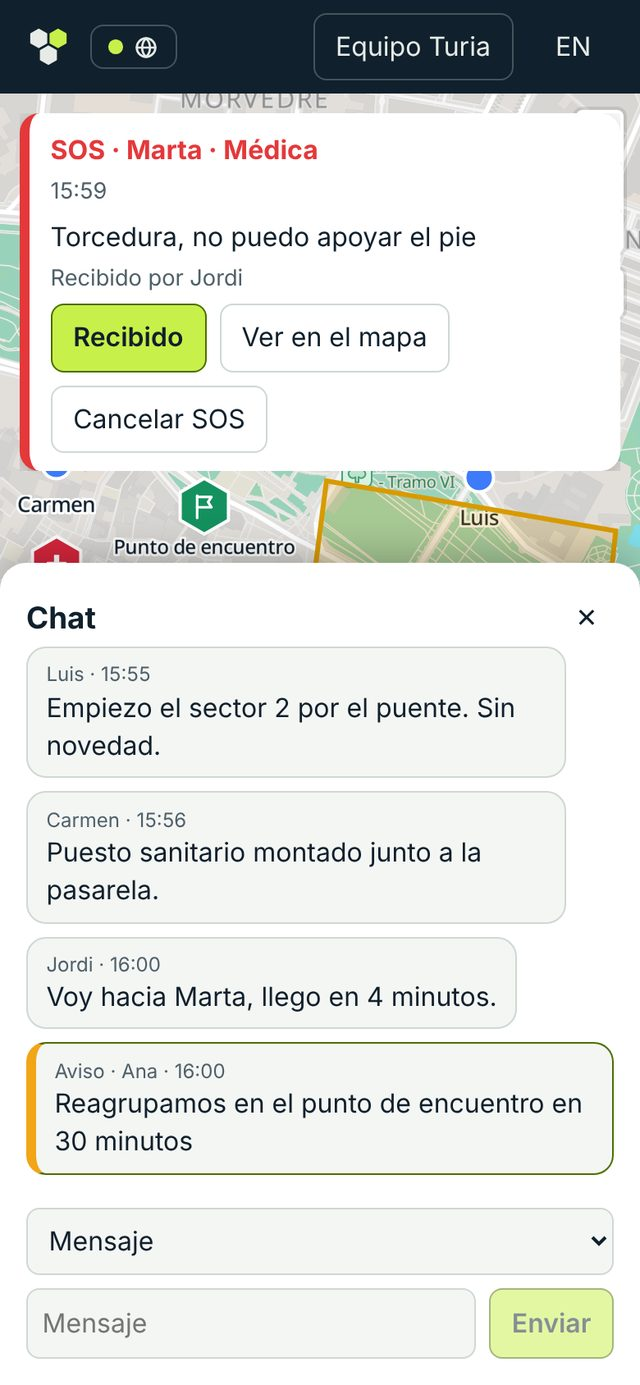
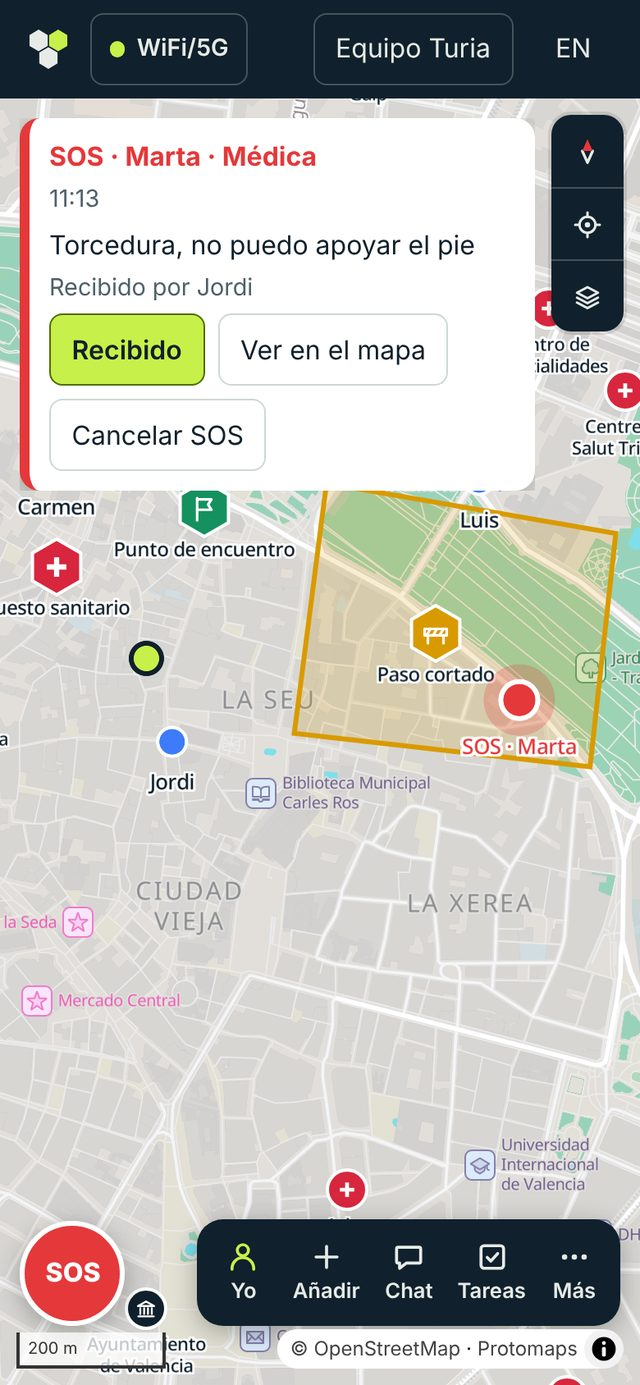
feat: common tasks in one drop-down, and the site's images of today's app
- The nine common tasks are one drop-down above the task's text: one
  line on any screen, the phone's own picker lists them.
- Panels now cover the cards on top of the map, as on a tablet a panel
  and the incident banners overlap: what covers what is four named
  layers in app.css instead of numbers in each component.
- The site's and guide's screenshots taken again with the simulator
  (new controls, cards, dock, services and logo); their descriptions
  follow what they show. The screenshot script closes panels by their
  accessible name, and pnpm passes options without "--".

Claude-Session: https://claude.ai/code/session_01Hfm8dyPBUQ5nGwrtNpfWec

diff --git a/apps/web/src/lib/tasks/TaskForm.svelte b/apps/web/src/lib/tasks/TaskForm.svelte
@@ -1,5 +1,5 @@
-<!-- Adds a task or changes one: only the text is needed, typed or picked from the common ones;
-     who and the place are optional. -->
+<!-- Adds a task or changes one: only the text is needed, typed or picked from the common ones in
+     a drop-down; who and the place are optional. -->
 <script lang="ts">
   import type { GroupState } from '@tesel/core';
   import {
@@ -111,18 +111,30 @@
   }}
 >
   <h3>{existing ? t('editTask') : t('newTask')}</h3>
+  {#if !existing}
+    <!-- One line, whatever the screen: the phone's own picker lists the common tasks. -->
+    <label>
+      {t('taskPresets')}
+      <select
+        value=""
+        onchange={(event) => {
+          const preset = event.currentTarget.value;
+          if (preset !== '') text = preset;
+          event.currentTarget.value = '';
+        }}
+      >
+        <option value="">{t('taskPresetPick')}</option>
+        {#each TASK_PRESETS as preset (preset)}
+          <option value={t(preset)}>{t(preset)}</option>
+        {/each}
+      </select>
+    </label>
+  {/if}
   <label>
     {t('taskText')}
     <!-- svelte-ignore a11y_autofocus -->
     <textarea bind:value={text} rows="2" required autofocus={!existing}></textarea>
   </label>
-  {#if !existing && text.trim() === ''}
-    <div class="row" role="group" aria-label={t('taskPresets')}>
-      {#each TASK_PRESETS as preset (preset)}
-        <button type="button" class="chip" onclick={() => (text = t(preset))}>{t(preset)}</button>
-      {/each}
-    </div>
-  {/if}
   {#if tooLong}<p class="warning">{t('taskTooLong')}</p>{/if}
   <label>
     {t('taskAssignee')}
@@ -201,8 +213,7 @@
     display: inline-flex;
     gap: 0.35rem;
     align-items: center;
-    min-height: auto;
-    padding: 0.45rem 0.75rem;
+    padding: 0.35rem 0.7rem;
     font-size: var(--text-secondary);
     border: 1px solid var(--border);
     border-radius: var(--radius-pill);

diff --git a/tools/simulator/src/screenshots.ts b/tools/simulator/src/screenshots.ts
@@ -1,7 +1,7 @@
 // Takes the screenshots of the app that the site shows (apps/site/img): Ana coordinates in a real
 // browser, the rest of the team is the Turia scenario played by simulated devices.
 //
-//   pnpm --filter @tesel/simulator screenshots -- --app http://localhost:8080/app/ --out shots
+//   pnpm --filter @tesel/simulator screenshots --app http://localhost:8080/app/ --out shots
 //     [--tiles tiles.json]
 //
 // The app must be built for its own server (VITE_SERVER_URL=/), as in the server image. Its base
@@ -110,7 +110,7 @@ try {
 async function showView(page: Page, hash: string): Promise<void> {
   await page.goto(`${values.app}#map=${hash}`);
   await page.waitForTimeout(3000);
-  for (const close of await page.locator('button', { hasText: /^Cerrar$/ }).all()) {
+  for (const close of await page.getByRole('button', { name: 'Cerrar', exact: true }).all()) {
     await close.click();
   }
   await page.waitForTimeout(500);

diff --git a/apps/site/index.html b/apps/site/index.html
@@ -87,7 +87,7 @@
                 width="1800"
                 height="1257"
                 loading="lazy"
-                alt="Tesel en una tablet durante un operativo en Valencia: cinco miembros en el mapa, un sector de búsqueda, un punto de encuentro y un puesto sanitario marcados, un SOS médico confirmado por un compañero y el chat del equipo con un aviso de coordinación."
+                alt="Tesel en una tablet durante un operativo en Valencia: cinco miembros en el mapa, un sector de búsqueda, un punto de encuentro y un puesto sanitario marcados, un SOS médico confirmado por un compañero y el chat del equipo con un mensaje de quien coordina."
               />
             </picture>
             <span class="pin" style="--x: 12.5%; --y: 32.6%" aria-hidden="true">1</span>

diff --git a/apps/web/e2e/tasks.e2e.ts b/apps/web/e2e/tasks.e2e.ts
@@ -41,10 +41,7 @@ test('a common task, for anyone, is taken by whoever starts it', async ({ browse
   await ana.getByRole('button', { name: 'Tareas' }).click();
   const anaTasks = ana.getByRole('region', { name: 'Tareas' });
   await anaTasks.getByRole('button', { name: 'Nueva tarea' }).click();
-  await anaTasks
-    .getByRole('group', { name: 'Habituales' })
-    .getByRole('button', { name: 'Llevar material' })
-    .click();
+  await anaTasks.getByLabel('Tarea habitual').selectOption({ label: 'Llevar material' });
   await expect(anaTasks.getByLabel('Qué hay que hacer')).toHaveValue('Llevar material');
   await anaTasks.getByRole('button', { name: 'Guardar' }).click();
   await expect(anaTasks.getByText('Para cualquiera')).toBeVisible();

diff --git a/apps/site/en/index.html b/apps/site/en/index.html
@@ -87,7 +87,7 @@
                 width="1800"
                 height="1257"
                 loading="lazy"
-                alt="Tesel on a tablet during an operation in Valencia: five members on the map, a search sector, a meeting point and a first-aid post marked, a medical SOS acknowledged by a teammate, and the team chat with a coordination alert."
+                alt="Tesel on a tablet during an operation in Valencia: five members on the map, a search sector, a meeting point and a first-aid post marked, a medical SOS acknowledged by a teammate, and the team chat with a message from the coordinator."
               />
             </picture>
             <span class="pin" style="--x: 12.5%; --y: 32.6%" aria-hidden="true">1</span>

diff --git a/apps/web/src/lib/i18n/es.ts b/apps/web/src/lib/i18n/es.ts
@@ -339,7 +339,8 @@ export const es: Messages = {
   confirmCancelTask: '¿Anular «{text}» para todo el grupo? Seguirá en el diario.',
   taskTooLong: 'Escribe un texto más corto: una tarea tiene que caber en un mensaje de radio.',
   taskNotSent: 'No se ha podido guardar la tarea.',
-  taskPresets: 'Habituales',
+  taskPresets: 'Tarea habitual',
+  taskPresetPick: 'Elegir una…',
   presetSearchArea: 'Buscar en la zona',
   presetCheckHome: 'Revisar una vivienda',
   presetTreatInjured: 'Atender a un herido',

diff --git a/apps/web/src/app.css b/apps/web/src/app.css
@@ -74,6 +74,12 @@
   --text-small: 0.8rem;
   --text-secondary: 0.9rem;
   --text-title: 1.15rem;
+  /* What covers what over the map, bottom to top: the dock, what is going on now (cards and
+     banners), the panels, and what pops over everything (menus, notices). */
+  --layer-dock: 1;
+  --layer-status: 2;
+  --layer-panel: 3;
+  --layer-popup: 4;
   /* The height of a button, an input or a map control: large enough for a gloved finger. */
   --control-size: 2.75rem;
 }

diff --git a/apps/web/src/lib/i18n/en.ts b/apps/web/src/lib/i18n/en.ts
@@ -337,7 +337,8 @@ export const en = {
   confirmCancelTask: 'Cancel “{text}” for the whole group? It stays in the diary.',
   taskTooLong: 'Write a shorter text: a task has to fit in a radio message.',
   taskNotSent: 'The task could not be saved.',
-  taskPresets: 'Common tasks',
+  taskPresets: 'Common task',
+  taskPresetPick: 'Pick one…',
   presetSearchArea: 'Search the area',
   presetCheckHome: 'Check a home',
   presetTreatInjured: 'Treat an injured person',

diff --git a/tools/simulator/src/cli.ts b/tools/simulator/src/cli.ts
@@ -1,6 +1,6 @@
 // Plays a scenario on a group, for a demonstration or to try the app with company:
 //
-//   pnpm --filter @tesel/simulator start -- '<invitation link>' [--scenario turia]
+//   pnpm --filter @tesel/simulator start '<invitation link>' [--scenario turia]
 //     [--speed 1 | --speed instant] [--positions 10]
 //
 // The invitation link is the one the app shows under Groups → Invite; it carries the group and

diff --git a/apps/site/guia/index.html b/apps/site/guia/index.html
@@ -161,7 +161,7 @@
             width="1400"
             height="978"
             loading="lazy"
-            alt="Tesel en una tablet: un SOS médico arriba, el equipo y las marcas en el mapa y el chat con un aviso de coordinación."
+            alt="Tesel en una tablet: un SOS médico arriba, y el equipo, un sector de búsqueda y las marcas en el mapa."
           />
         </picture>
         <figcaption>

diff --git a/apps/site/en/guide/index.html b/apps/site/en/guide/index.html
@@ -163,7 +163,7 @@
             width="1400"
             height="978"
             loading="lazy"
-            alt="Tesel on a tablet: a medical SOS at the top, the team and the marks on the map, and the chat with a coordination alert."
+            alt="Tesel on a tablet: a medical SOS at the top, and the team, a search sector and the marks on the map."
           />
         </picture>
         <figcaption>

diff --git a/apps/web/src/lib/workspace/MapStatus.svelte b/apps/web/src/lib/workspace/MapStatus.svelte
@@ -138,7 +138,7 @@
   /* Clear of the map's controls on the right: one control wide, with MapLibre's 10 px margin. */
   .top {
     position: absolute;
-    z-index: 2;
+    z-index: var(--layer-status);
     top: 0.75rem;
     right: calc(var(--control-size) + 1.25rem);
     left: 0.75rem;
